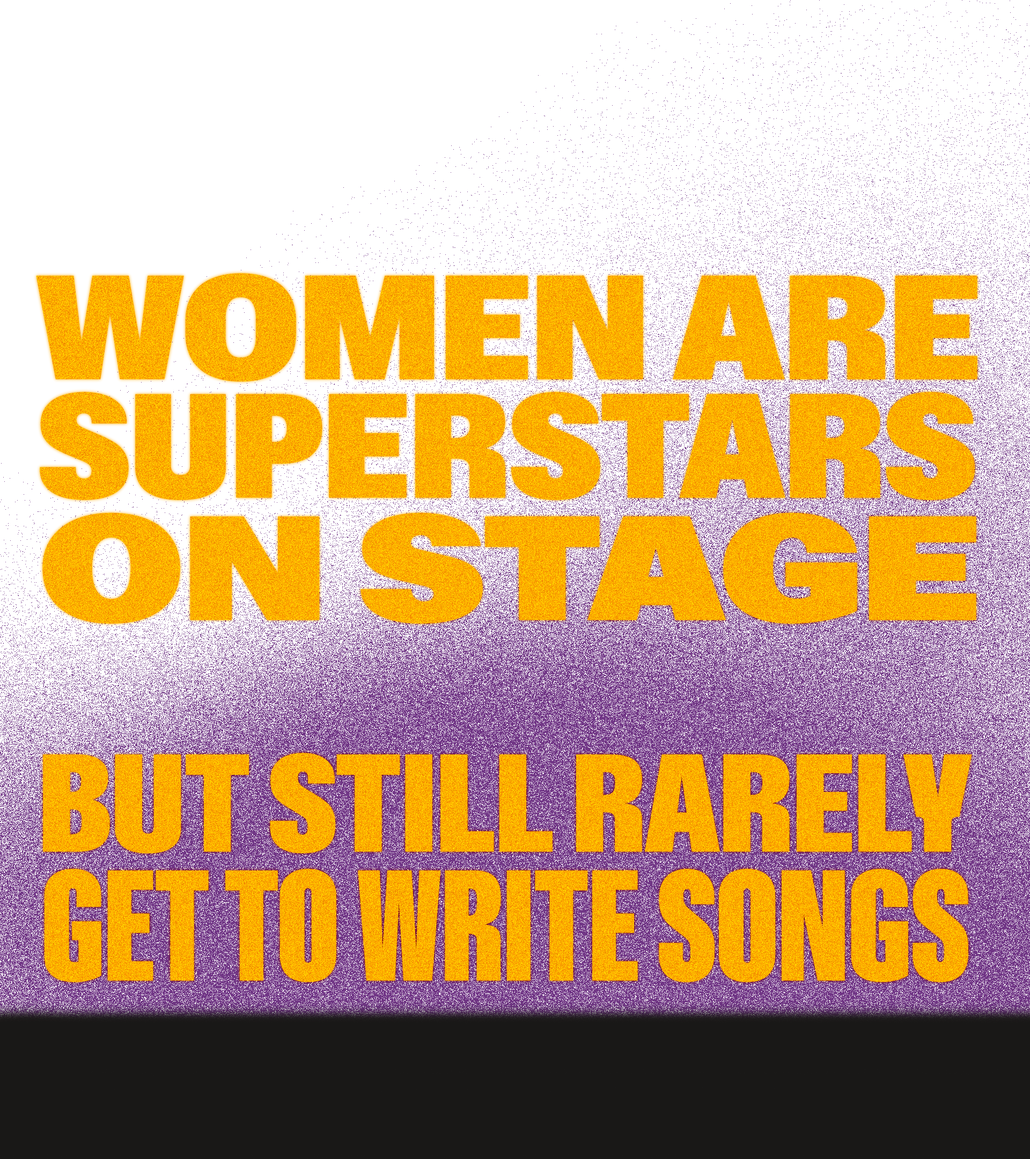
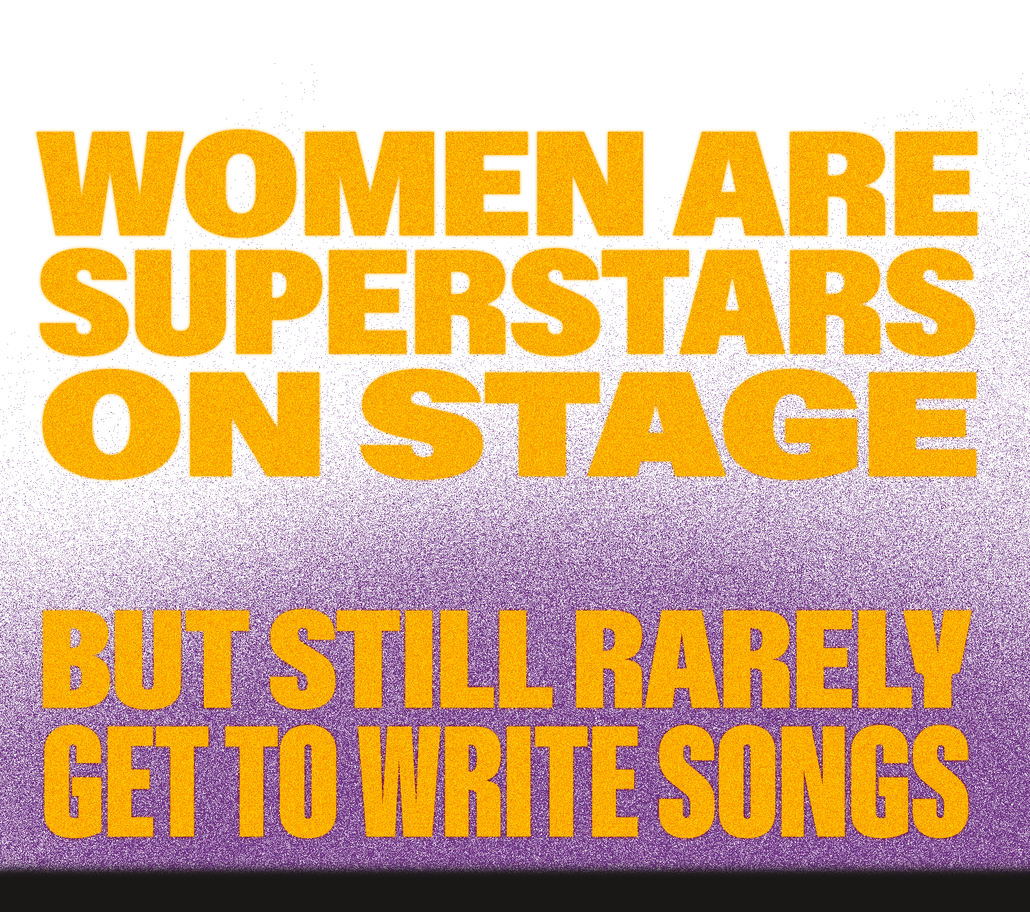
microphones

diff --git a/src/components/Headline.svelte b/src/components/Headline.svelte
@@ -1,0 +1,70 @@
+<script>
+    import Sparkle from "./Sparkle.svelte";
+	import SmallSparkle from "./SmallSparkle.svelte";
+    let value;
+</script>
+
+
+<div class="title-container fixed-wrapper">
+
+    <div class="title center-col fixed" style="max-width:100vw">
+        <Sparkle></Sparkle>
+        <SmallSparkle></SmallSparkle><SmallSparkle></SmallSparkle><SmallSparkle></SmallSparkle><SmallSparkle></SmallSparkle><SmallSparkle></SmallSparkle>
+        <SmallSparkle></SmallSparkle><SmallSparkle></SmallSparkle><SmallSparkle></SmallSparkle><SmallSparkle></SmallSparkle><SmallSparkle></SmallSparkle>
+        <SmallSparkle></SmallSparkle><SmallSparkle></SmallSparkle><SmallSparkle></SmallSparkle><SmallSparkle></SmallSparkle><SmallSparkle></SmallSparkle>
+
+        <Sparkle starNumber=2 position="left:0px;top:50%"></Sparkle>
+        <img id="headline" alt="Women are superstars on stage but still rarely get to write songs" src="assets/headline-base.png">
+        
+    </div>
+
+    <img class="microphones fixed2" alt="" src="assets/headline-mics.png">
+</div>
+<p class="byline">by Chris Dalla Riva, Design by Ashley Cai</p>
+
+
+
+<style>
+
+    .title {
+        z-index: 2;
+    }
+
+    .fixed-wrapper {
+    position: relative; 
+    height: 260vh;
+    }
+
+    .microphones {
+        z-index: 3;
+    }
+
+    .fixed {
+        position: sticky;
+        top: -70vh;
+        display: flex;
+        /* position: absolute; */
+        flex-wrap: wrap;
+        justify-content: center;
+        /* transform: translate(0,-70%); */
+        flex-direction: column;
+    }
+
+    .fixed2 {
+        position: sticky;
+        top: 20vh;
+        /* top: -70vh; */
+        display: flex;
+        /* position: absolute; */
+        flex-wrap: wrap;
+        justify-content: center;
+        /* transform: translate(0,-70%); */
+        flex-direction: column;
+    }
+
+    .byline {
+		text-align: center;
+		font-family: 'DM Sans';
+        z-index: 10;
+	}
+</style>

diff --git a/src/components/Index.svelte b/src/components/Index.svelte
@@ -14,6 +14,7 @@
 	import Sparkle from "./Sparkle.svelte";
 	import SmallSparkle from "./SmallSparkle.svelte";
 	import { format } from "d3";
+	import Headline from "./Headline.svelte";
  
 	// import Footer from "$components/Footer.svelte";
 
@@ -110,17 +111,9 @@
 <p class="center-col para">
 	And both were written and performed by Taylor Swift. This isn’t shocking for two reasons. First, hit songs written by women without any male co-writers are rare. Second, when women do write a hit without a man also sharing credit, they often end up performing the song themselves.
 </p>
-<div class="title center-col" style="max-width:100vw">
-	<Sparkle></Sparkle>
-	<SmallSparkle></SmallSparkle><SmallSparkle></SmallSparkle><SmallSparkle></SmallSparkle><SmallSparkle></SmallSparkle><SmallSparkle></SmallSparkle>
-	<SmallSparkle></SmallSparkle><SmallSparkle></SmallSparkle><SmallSparkle></SmallSparkle><SmallSparkle></SmallSparkle><SmallSparkle></SmallSparkle>
-	<SmallSparkle></SmallSparkle><SmallSparkle></SmallSparkle><SmallSparkle></SmallSparkle><SmallSparkle></SmallSparkle><SmallSparkle></SmallSparkle>
 
-	<Sparkle starNumber=2 position="left:0px;top:50%"></Sparkle>
-	<img id="headline" alt="Women are superstars on stage but still rarely get to write songs" src="assets/headline-base.png">
-	
-	<p class="byline">by Chris Dalla Riva, Design by Ashley Cai</p>
-</div>
+<Headline></Headline>
+
 <p class="center-col para">
 	To recap the results from the past 13 years, there are so few songs written exclusively by women that I can list them all.
 </p>
